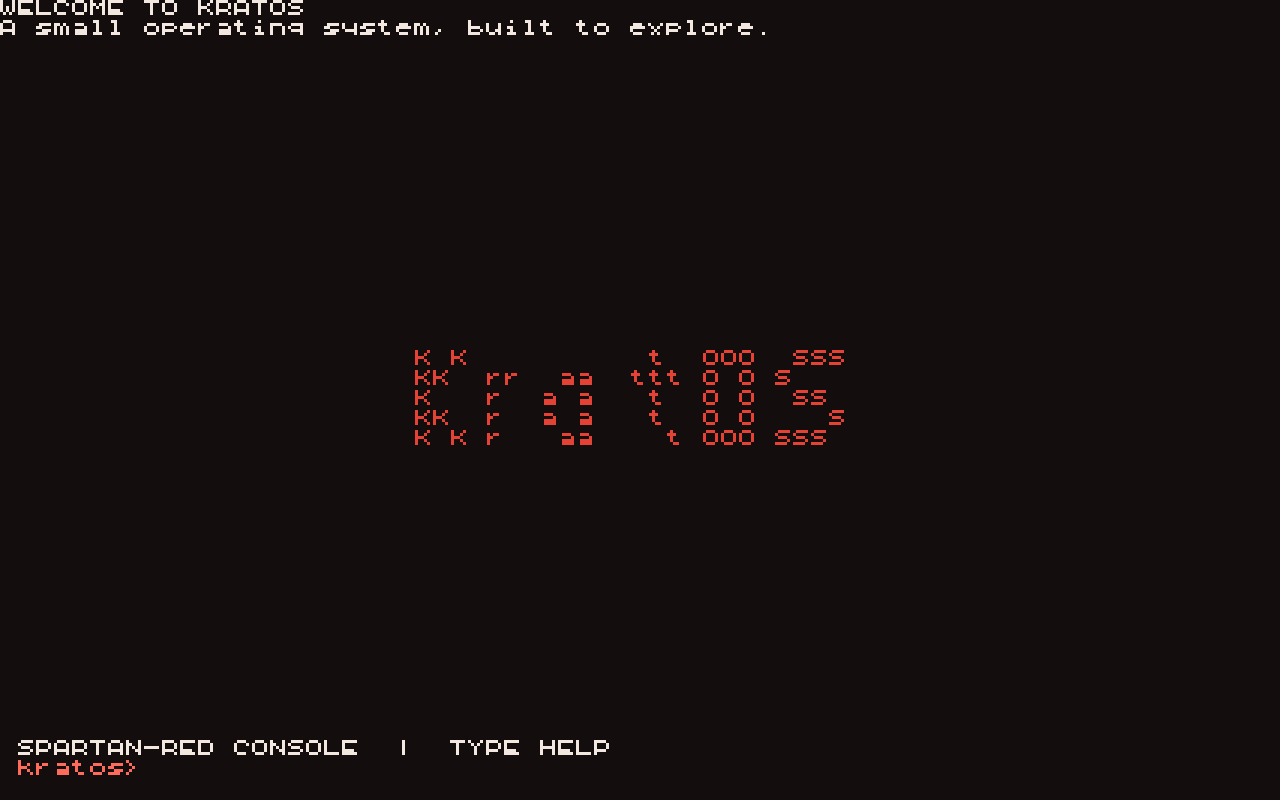
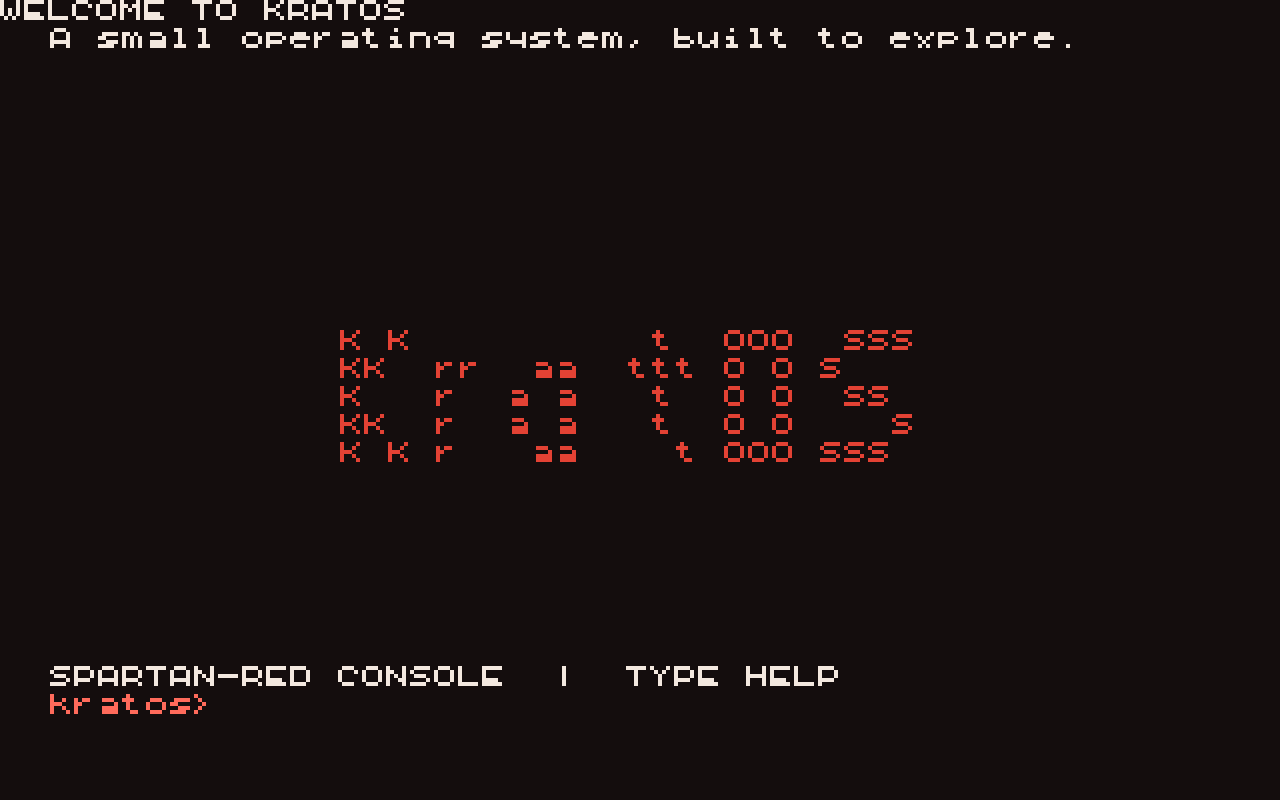
[STABLE] Refresh shell padding verification evidence

diff --git a/docs/qemu-boot.md b/docs/qemu-boot.md
@@ -71,17 +71,20 @@ without printing a partial argument and the shell remains usable.
 The kernel requests Limine's framebuffer and accepts only a validated 32-bit
 RGB surface with byte-aligned, non-overlapping 8-bit channels. The reusable
 `kratos/kernel/raster.zig` surface checks dimensions, pitch, and backing extent
-before drawing; its 18x20 cell bitmap font (5x5 source glyphs rendered at 3x3
-pixels per source bit, with cell spacing) renders upper/lowercase letters,
-digits, spaces, and common punctuation. The bounded console clips pixels,
-wraps, scrolls, clears, and handles CR/LF/backspace. The framebuffer shell
-reserves one full 20-pixel cell below its last line; scroll and cursor bounds
-exclude that inset. `presentation.zig` renders a centered multiline ASCII-art
-KratOS logo and welcome screen with a deep-red background,
-Spartan-red logo/prompt, and warm-white output. Unsupported or absent framebuffer
-data emits a serial diagnostic and leaves the serial shell operational. Shell
-prompt, input echo, and command output are mirrored to the framebuffer when
-available and to serial. The polled i8042 keyboard path decodes translated
+before drawing; its normal 24x28 cell font (5x5 source glyphs rendered at 4x4
+pixels per source bit) renders upper/lowercase letters, digits, spaces, and
+common punctuation. Compact layouts use 18x20 cells at 3x3 pixels per source
+bit. The bounded console clips pixels, wraps, scrolls, clears, and handles
+CR/LF/backspace. At 1280x800, the welcome, prompt, input echo, output, and
+animation use a 50-pixel inset on all four edges. At 320x200, compact text uses
+16-pixel horizontal and 12-pixel vertical insets so the interface remains
+usable. Clear resets to the padded console origin rather than (0,0), and
+scrolling is constrained to the padded viewport. `presentation.zig` renders a
+centered multiline ASCII-art KratOS logo and welcome screen with a deep-red
+background, Spartan-red logo/prompt, and warm-white output. Unsupported or
+absent framebuffer data emits a serial diagnostic and leaves the serial shell
+operational. Shell prompt, input echo, and command output are mirrored to the
+framebuffer when available and to serial. The polled i8042 keyboard path decodes translated
 PS/2 set-1 make/break codes with independent left/right Shift, US letters and
 punctuation, Enter and Backspace. Extended keys, Caps Lock, other modifiers,
 and non-US layouts are not implemented. Each poll consumes at most one keyboard
@@ -93,6 +96,7 @@ Host validation, from the repository root:
 
 ```sh
 zig test kratos/kernel/raster.zig
+zig test kratos/kernel/presentation.zig
 zig test kratos/kernel/console.zig
 ```
 
@@ -106,20 +110,22 @@ Run `./kratos/build-qemu.sh` and inspect the framebuffer at the default mode:
   `clear` update framebuffer output; typed input is visible in both outputs.
 - At 320x200, confirm the compact footer, prompt, and ASCII-art logo remain
   legible and do not overlap.
-- At both 1280x800 and 320x200, check that the prompt has a 20-pixel background
-  inset below it and that scrolling never draws into that inset.
+- At 1280x800, confirm all UI content stays within 50 pixels of each edge; at
+  320x200 confirm the compact 16x12-pixel insets, prompt baseline, and bottom
+  margin.
 - Try a very long `echo` response and multiple lines; confirm wrapping/scrolling
   stays within the framebuffer and no ANSI escape glyphs appear.
 - For fallback, boot without a framebuffer response (or with unsupported format)
   and verify the serial diagnostic, prompt, commands, and `clear` notice remain
   available.
 
-BIOS QEMU verification passed at 1280x800 using Limine 12.9.6. The updated
-18x20 cells make the text visibly larger, and the shell reserves one full cell
-below its final line. At 320x200 the welcome uses a compact three-row ASCII
-wordmark and short footer so the logo, footer, and prompt remain separated.
-Final welcome and post-clear prompt screenshots for both sizes are committed in
-[`docs/screenshots`](screenshots/); they were captured from QEMU and inspected.
+Fresh BIOS QEMU captures verified at 1280x800 and 320x200. Normal 24x28 cells
+and 50-pixel edge insets are used at 1280x800; the 320x200 compact mode uses
+18x20 cells, 16-pixel horizontal insets, and 12-pixel vertical insets (literal
+50-pixel padding would leave too few columns and rows for a usable shell). The
+initial prompt remains inset at the bottom of the welcome, and `clear` returns
+the prompt to the inset top-left origin. Fresh welcome and post-clear screenshots for both sizes are committed
+in [`docs/screenshots`](screenshots/) and were inspected.
 
 ### Foreground KratOS animation
 
@@ -129,15 +135,16 @@ edge. Press `q` or `Q` at any point to return to the branded shell; verify the
 prompt and theme return, then run `help` and `about` before `halt`. No key other
 than the exit key is treated as a shell command while the application is active.
 The app uses PIT channel 2's ~1.193182 MHz base clock with a 23,864-count
-one-shot (~20 ms) for frame pacing, polling keyboard and COM1 during that interval. Runtime
-direction state is seeded from `RDTSC`; this is a varied local seed, not secure
+one-shot (~20 ms) for frame pacing, polling keyboard and COM1 during that
+interval. Runtime direction state is seeded from `RDTSC`; this is a varied
+local seed, not secure
 entropy. The channel-2/speaker gate state is restored when the app exits.
 
 BIOS QEMU verification at both 1280x800 and 320x200 confirmed the figure is
-visible and bounded within the drawable rows above the shell's reserved bottom
-inset, `q` returns to the restored branded shell, and `help` then `halt` still
-work. A separate `-vga none` run confirmed the no-framebuffer
-diagnostic, `kratos` fallback, shell recovery, and halt.
+visible and bounded within the padded drawable region, `q` returns to the
+restored inset shell, and `help` then `halt` still work. A separate `-vga none`
+run confirmed the no-framebuffer diagnostic, `kratos` fallback, shell recovery,
+and halt.
 
 Example interaction (memory values depend on the Limine map):
 

diff --git a/docs/tickets/0016-larger-shell-font-and-padding.md b/docs/tickets/0016-larger-shell-font-and-padding.md
@@ -12,12 +12,14 @@ existing ASCII-art text presentation.
 
 ## Acceptance criteria
 
-- Shell glyphs are visibly taller/larger than the current 12x12-pixel cells at
-  the standard QEMU display mode; the selected cell dimensions are documented.
-- The final shell line and prompt have at least one full line-height of visible
-  background beneath them, rather than touching the framebuffer's bottom edge.
-- Shell scrolling and cursor bounds account for the larger font and bottom
-  inset; command output, typed echo, Backspace, and `clear` remain correct.
+- Shell glyphs use documented larger 24x28 cells at 1280x800, with 18x20
+  compact cells at 320x200.
+- The entire standard-resolution interface has a 50-pixel inset from every
+  edge. Compact mode uses responsive 16-pixel horizontal and 12-pixel vertical
+  insets at 320x200.
+- The prompt/input row has a visible baseline and bottom margin; scrolling and
+  cursor bounds stay inside the inset viewport. Output, typed echo, Backspace,
+  and clear remain correct, and clear preserves the padded cursor origin.
 - The welcome logo, tagline, and prompt remain legible and non-overlapping at
   both 1280x800 and 320x200. Narrow layouts may use a compact logo/layout while
   continuing to render text rather than a pixel wordmark.
@@ -36,20 +38,23 @@ recovery behavior. Builds on tickets 0011–0015.
 
 ## Implementation notes
 
-Implemented an 18x20 cell font with 3x3 rendering of each 5x5 source glyph and
-a 20-pixel bottom inset. Presentation selects a compact, non-wrapping ASCII
-welcome on narrow/short screens; animation dimensions and its exit label respect
-the same inset. Console wrapping, scrolling, clear, and editing retain bounded
-cell coordinates.
+Follow-up implementation uses a normal 24x28 cell font (4x4 glyph pixels) and
+50-pixel padding on all four edges at 1280x800. At 320x200 it selects 18x20
+cells (3x3 glyph pixels), compact two-row ASCII welcome, and 16x12-pixel insets;
+50 pixels on each side would make the minimum display unusable. The framebuffer
+console carries a bounded padded viewport, so clear returns to its inset origin
+and wrap/scroll/editing cannot write into the margins. The animation uses this
+same viewport and font scale.
 
 ## Verification evidence
 
-- Host tests: raster/font/scroll, presentation layout bounds at 1280x800 and
-  320x200, animation policy, input, and shell command tests passed.
+- Host tests: normal/compact glyph dimensions, all four inset bounds, console
+  input/backspace/output/scroll/clear bounds, welcome/clear cursor placement at
+  1280x800 and 320x200, animation policy, input, and shell command tests passed.
 - Freestanding kernel ELF compiled and linked with Zig 0.17.0 and Clang.
 - QEMU keyboard tests passed at 1280x800 and 320x200: Backspace, quoted echo,
   clear, `kratos` exit/recovery, and guest `shutdown` (QEMU status 33).
 - QEMU serial regression passed rapid paste, quoted echo, overflow recovery,
   Backspace, `halt`, and `shutdown` (status 33).
-- Captured and inspected welcome and post-clear shell screenshots at both
-  resolutions: [`screenshots`](../screenshots/).
+- Captured and inspected fresh welcome and post-clear prompt screenshots after
+  this follow-up at both resolutions: [`screenshots`](../screenshots/).

diff --git a/docs/session-log.md b/docs/session-log.md
@@ -49,3 +49,7 @@
 2026-11-01 - 16:12 MSK - Created ticket 0016 to increase shell font size and add a full-line-height bottom inset, with responsive 1280x800/320x200 layout, scrolling, and screenshot acceptance criteria.
 
 2026-11-01 - 16:22 MSK - Implemented ticket 0016 with 18x20 shell cells, a full-cell bottom inset, compact small-screen ASCII welcome, and inset-aware animation layout; passed host tests, freestanding compile/link, QEMU keyboard and serial/shutdown regressions, and inspected committed 1280x800/320x200 screenshots.
+
+2026-11-01 - 16:41 MSK - Revised ticket 0016 after visual feedback: enlarged standard glyphs to 24x28 cells, added 50-pixel all-edge padding with a 16x12-pixel compact 320x200 mode, preserved the padded cursor after clear, bounded animation and console scrolling to the viewport, and captured fresh QEMU screenshots at both resolutions.
+
+2026-11-01 - 16:47 MSK - Verified the revised ticket 0016 build: all framebuffer/layout/input/app host tests passed, the freestanding kernel compiled and linked, keyboard regressions passed at 1280x800 and 320x200, and serial editing/overflow/halt/shutdown regressions passed (QEMU shutdown status 33); inspected fresh welcome, clear, and animation screenshots.
